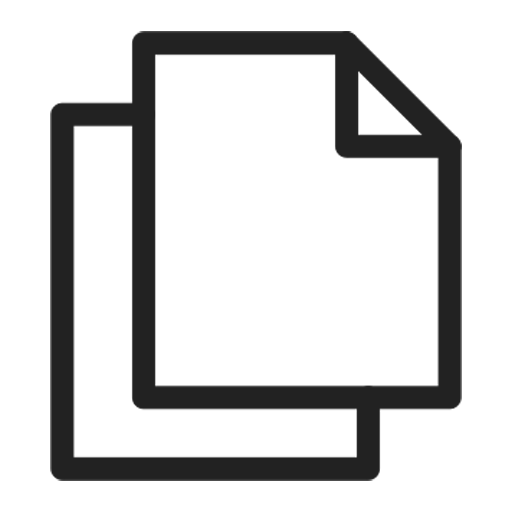
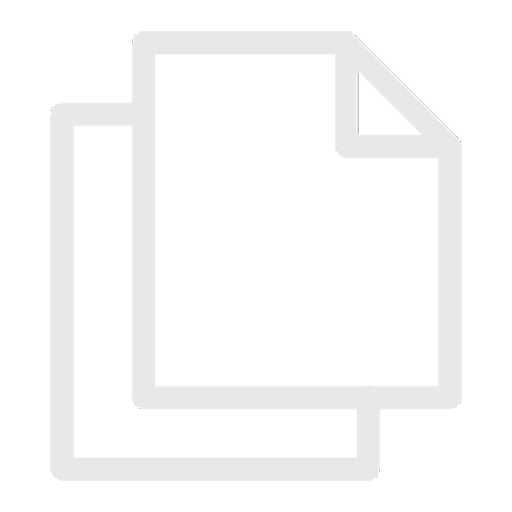
Slide contact CSS Changes

Changed region(s): [[0.0938, 0.0625, 0.9062, 0.9375]]

diff --git a/CSS/style.css b/CSS/style.css
@@ -294,10 +294,8 @@ header.menu-dark .main-nav a:hover {
 }
 
 .slide6 {
-  background-image: url(../img/texture.jpg);
-  background-position: center top;
-  background-size: cover;
-  color: black;
+  background-color: black;
+  color: white;
   display: flex;
   justify-content: flex-start;
   padding: 0 140px 0 30px;
@@ -334,7 +332,7 @@ header.menu-dark .main-nav a:hover {
 
 /* Mail */
 .slide6 .slide-mail {
-  color: black;
+  color: white;
   font-size: 1.4rem;
   text-decoration: underline;
   text-underline-offset: 3px;
@@ -342,7 +340,7 @@ header.menu-dark .main-nav a:hover {
   margin: 0;
   transition: opacity 0.3s ease;
 
-  /* ✅ empêche la coupure du mail */
+  /* empêche la coupure du mail */
   white-space: nowrap;
   overflow-wrap: normal;
   word-break: normal;
@@ -361,7 +359,7 @@ header.menu-dark .main-nav a:hover {
 
 .slide6 .slide-link {
   font-size: 1.4rem;
-  color: black;
+  color: white;
   text-decoration: none;
   transition: opacity 0.3s ease;
 }
@@ -437,7 +435,7 @@ header.menu-dark .main-nav a:hover {
   transform: translateY(-50%) rotate(90deg);
   transform-origin: right center;
   letter-spacing: 2px;
-  color: #333;
+  color: white;
   text-transform: uppercase;
   text-orientation: mixed;
   pointer-events: none;
@@ -466,6 +464,7 @@ header.menu-dark .main-nav a:hover {
   gap: 22px;
   z-index: 900;
   padding: 20px;
+  transition: opacity 0.3s ease;
 }
 
 .slide-indicator .dot {
@@ -544,8 +543,9 @@ header.menu-dark .main-nav a:hover {
   width: 22px;
   height: 22px;
   cursor: pointer;
-  opacity: 0.6;
+  opacity: 1;
   transition: opacity 0.3s ease, transform 0.2s ease;
+  position: relative;
 }
 
 .copy-icon:hover {
@@ -556,20 +556,30 @@ header.menu-dark .main-nav a:hover {
 /* Pop-up "Copié" */
 .copied-popup {
   position: absolute;
+  bottom: 140%;
   left: 50%;
-  bottom: 120%;
   transform: translateX(-50%);
-  background: black;
+  background-color: black;
   color: white;
+  border: 0.8px solid white;
   font-size: 0.8rem;
   padding: 4px 8px;
   border-radius: 4px;
   opacity: 0;
   pointer-events: none;
   transition: opacity 0.3s ease, transform 0.3s ease;
+  white-space: nowrap;
 }
 
 .copied-popup.show {
   opacity: 1;
   transform: translateX(-50%) translateY(-4px);
 }
+
+.copy-wrapper {
+  height: 22px;
+  position: relative; /* permet à la popup d’être bien centrée sur l’icône */
+  display: inline-block;
+}
+
+

diff --git a/JS/script.js b/JS/script.js
@@ -220,6 +220,25 @@ if (wrapper && slides.length > 0) {
       original(index);
       updateDots();
 
+// --- Masquer les dots sur la slide contact (slide6) ET sur le footer ---
+const indicator = document.querySelector(".slide-indicator");
+
+if (indicator) {
+  const activeSlide = slides[currentSlide];
+  const isContact = activeSlide && activeSlide.classList.contains("slide6");
+  const isFooter = currentSlide === slides.length - 1;
+
+  if (isContact || isFooter) {
+    indicator.style.opacity = "0";
+    indicator.style.pointerEvents = "none";
+  } else {
+    indicator.style.opacity = "1";
+    indicator.style.pointerEvents = "auto";
+  }
+}
+
+
+
       // reset tous les titres
       document.querySelectorAll(".content h2, .content h3").forEach(el => resetTitle(el));
 
@@ -233,29 +252,6 @@ if (wrapper && slides.length > 0) {
       // lance la vidéo smooth
       playVideoWithThumbnail(activeSlide);
 
-      // MENU & LOGO clair/sombre
-      const header = document.querySelector("header");
-      const logo = document.getElementById("logo");
-      const isDarkSlide =
-        activeSlide.classList.contains("slide6") ||
-        activeSlide.classList.contains("footer-glitch");
-
-      if (isDarkSlide) {
-        header.classList.add("menu-dark");
-      } else {
-        header.classList.remove("menu-dark");
-      }
-
-      const newLogo = isDarkSlide ? "img/LOGO_noir.png" : "img/LOGO_blanc2.png";
-      if (!logo.src.includes(newLogo)) {
-        logo.style.opacity = "0";
-        setTimeout(() => {
-          logo.src = newLogo;
-          logo.style.opacity = "1";
-        }, 600);
-      } else {
-        logo.src = newLogo;
-      }
     };
   })(showSlide);
 

diff --git a/index.html b/index.html
@@ -47,9 +47,11 @@
         <h3 class="slide-title">Studio de production exécutif</h3>
         <div class="mail-container">
           <a href="mailto:sucre.contact@gmail.com" class="slide-mail" id="emailText">sucre.contact@gmail.com</a>
-          <img src="img/icones/copy_icon.png" alt="Copier" class="copy-icon" id="copyBtn">
-          <span class="copied-popup" id="copiedPopup">Copié !</span>
-        </div>        
+          <div class="copy-wrapper">
+            <img src="img/icones/copy_icon.png" alt="Copier" class="copy-icon" id="copyBtn">
+            <span class="copied-popup" id="copiedPopup">Copié !</span>
+          </div>
+        </div>             
         <nav class="slide-links">
           <a target="_blank" href="https://www.linkedin.com/company/sucre-production"
             class="slide-link"><span>LinkedIn</span></a>
